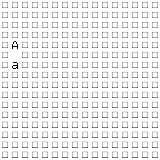
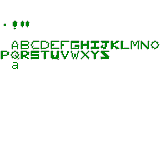
finish upercase letters for 'min' font

Changed region(s): [[0.0, 0.0, 1.0, 1.0]]

diff --git a/lib/message.js b/lib/message.js
@@ -78,7 +78,7 @@ class MessPusher {
         this.scene = opt.scene;
         this.key = opt.key;
         
-        this.scene.add.bitmapText( 32, 32, this.key, 'AaA\nAaA')
+        this.scene.add.bitmapText( 32, 32, this.key, opt.text || '')
         
         log('using text: ' + this.key)
     

diff --git a/drafts/mess_pusher/demo.js b/drafts/mess_pusher/demo.js
@@ -16,7 +16,8 @@ class Example extends Phaser.Scene {
         
         this.mp = new MessPusher({
             key: 'min',
-            scene: this
+            scene: this,
+            text: '0123456789\nABCDEFGHIJKLMNOPQRSTUVWXYZ\n !#$%&*\(\)-_;:\'\",.?/\/'
         });
         
     }

diff --git a/todo.md b/todo.md
@@ -105,9 +105,9 @@ Each task will then involve one or more actions such as 'findDonation', 'pickUpD
 
   /fonts :
     * ( done ) - start png and xml for 'min' font
-    * (      ) - finish upercase letters for 'min' font
+    * ( done ) - finish upercase letters for 'min' font
     * (      ) - finish numbers for 'min' font
-    * (      ) - finish must have symbols such as !$%\(\)\\\/\"\'\.:;\? and space
+    * (      ) - finish must have symbols (!#$%()'";:.?/\-_+=)
 
   /state/boot.js :
     * ( done ) - use console logger for console output
